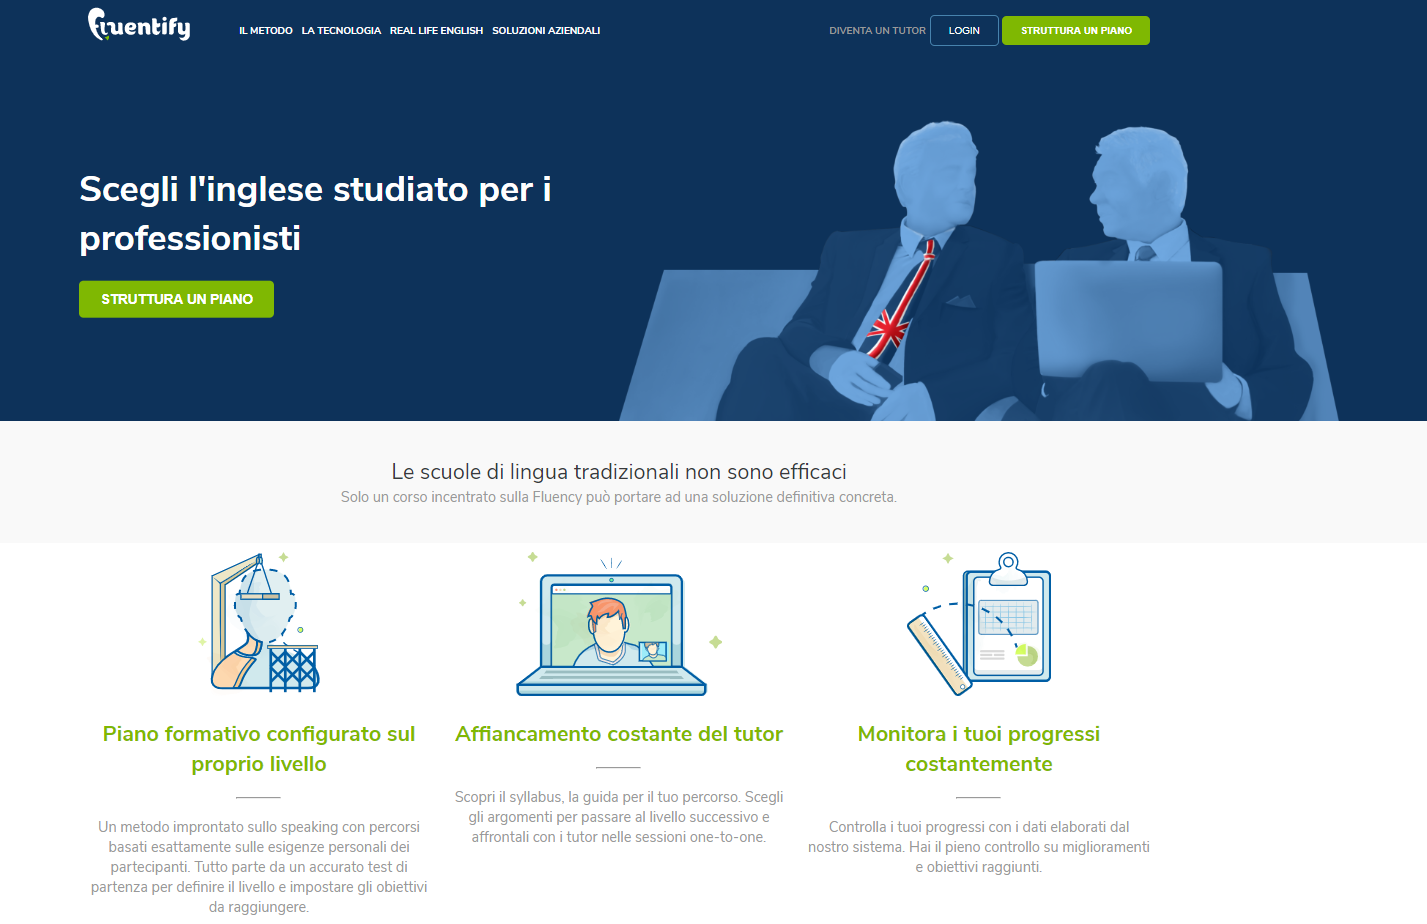
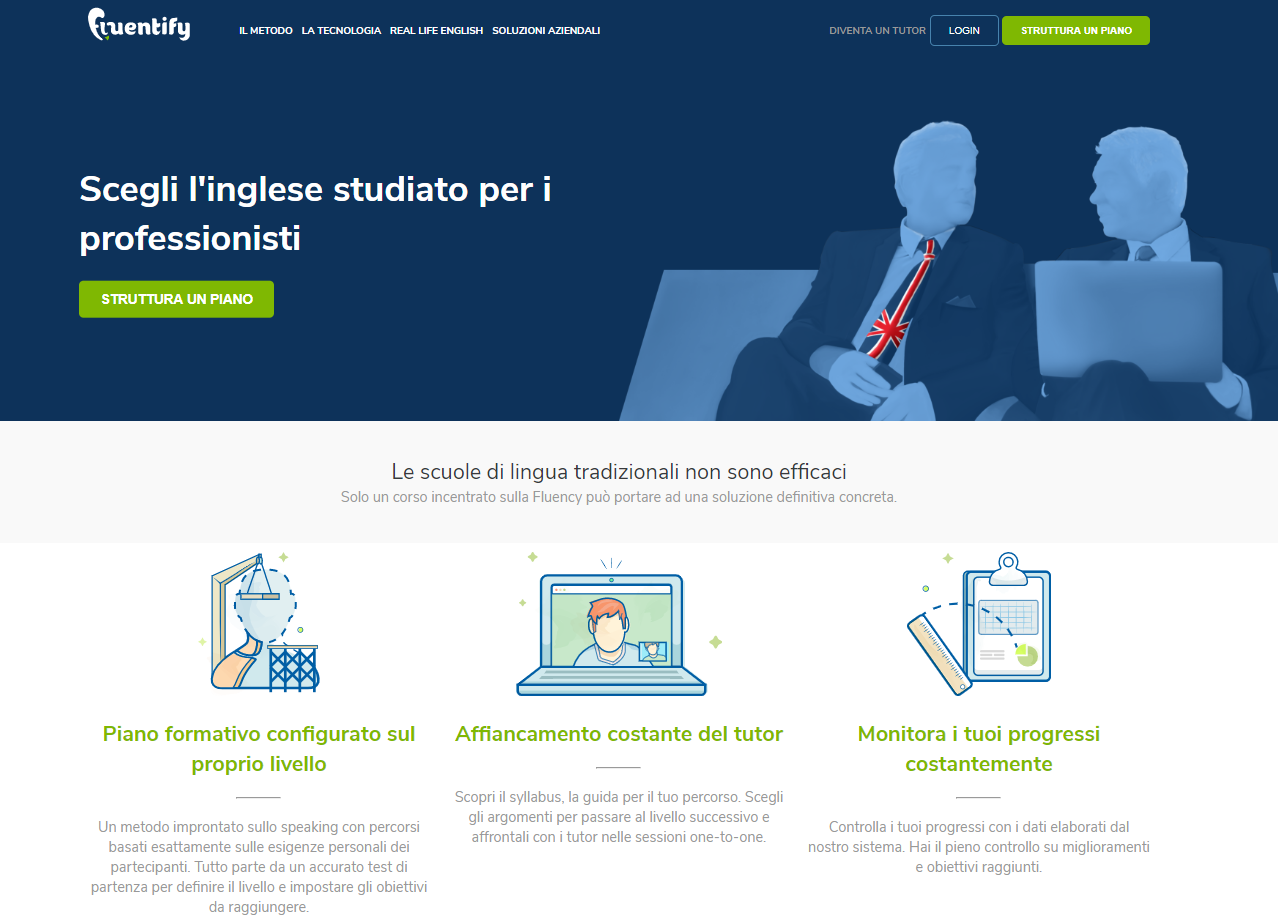
fix readme

diff --git a/README.md b/README.md
@@ -1,5 +1,5 @@
 # Html-css-fluentify
-Replica of the homepage of Fluentify made with HTML and CSS.
+Replica of a portion of the homepage of Fluentify made with HTML and CSS.
 
 ### [Live Version](https://gianluigivitale.github.io/html-css-fluentify/)
 
